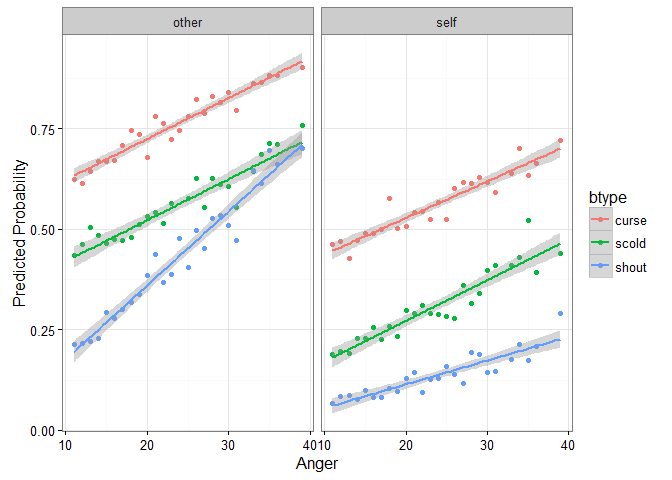
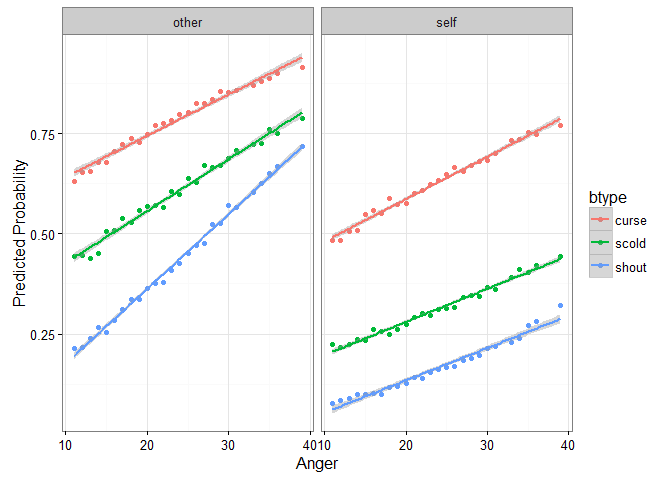
readying for release

diff --git a/README.md b/README.md
@@ -22,6 +22,29 @@ install_github("jknowles/merTools")
 install.packages("merTools")
 ```
 
+Recent Updates
+--------------
+
+### Version 0.2
+
+### New Functionality
+
+-   Substantial performance enhancement for `predictInterval` which includes better handling of large numbers of parameters and simulations, performance tweaks for added speed (~10x), and parallel backend support (currently not optimized)
+-   Add support for `probit` models and limited support for other `glmm` link functions, with warning (still do not know how to handle sigma parameter for these)
+-   Add ability for user-specified seed for reproducibility
+-   Add support for `blmerMod` and `bglmerMod` objects from the `blme` package
+-   Add a `merModList` object for lists of `merMod` objects fitted to subsets of a dataset, useful for imputation or for working with extremely large datasets
+-   Add a `print` method for `merModList` to mimic output of `summary.merMod`
+-   Add a `VarCorr` method for `merModList`
+-   Add new package data to demonstrate replication from selected published texts on multilevel modeling using different software (1982 High School and Beyond Survey data)
+
+### Other changes
+
+-   Changed the default `n.sims` for the `predictInterval` function from 100 to 1,000 to give better coverage and reflect performance increase
+-   Changed the default for `level` in `predictInterval` to be 0.8 instead of 0.95 to reflect that 0.95 prediction intervals are more conservative than most users need
+
+See [NEWS.md](https://github.com/jknowles/merTools/blob/master/NEWS.md) for more details.
+
 Shiny App and Demo
 ------------------
 
@@ -66,16 +89,16 @@ With `predictInterval` we obtain predictions that are more like the standard obj
 predictInterval(m1, newdata = InstEval[1:10, ], n.sims = 500, level = 0.9, 
                 stat = 'median')
 #>         fit      upr      lwr
-#> 1  3.076677 5.003599 1.136557
-#> 2  3.096491 5.233988 1.205294
-#> 3  3.372522 5.437127 1.450743
-#> 4  3.041402 4.997011 1.163716
-#> 5  3.299229 5.229003 1.349082
-#> 6  3.367862 5.222391 1.184870
-#> 7  4.092996 6.104901 2.313722
-#> 8  3.758966 5.601710 1.858686
-#> 9  3.815623 5.872416 1.799072
-#> 10 3.512199 5.533667 1.569613
+#> 1  3.176038 5.233758 1.064012
+#> 2  3.206135 5.422116 1.253410
+#> 3  3.336472 5.386472 1.348937
+#> 4  3.033041 5.078521 1.263795
+#> 5  3.398734 5.224032 1.280036
+#> 6  3.329136 5.166995 1.259935
+#> 7  4.219184 6.045051 2.113726
+#> 8  3.868250 5.990382 2.020127
+#> 9  3.775713 5.684676 1.638706
+#> 10 3.335752 5.433852 1.384539
 ```
 
 Note that `predictInterval` is slower because it is computing simulations. It can also return all of the simulated `yhat` values as an attribute to the predict object itself.
@@ -91,12 +114,12 @@ Plotting
 feSims <- FEsim(m1, n.sims = 100)
 head(feSims)
 #>          term        mean      median         sd
-#> 1 (Intercept)  3.22369693  3.22559188 0.02044559
-#> 2    service1 -0.07192204 -0.07203787 0.01284803
-#> 3   lectage.L -0.18593192 -0.18608018 0.01526385
-#> 4   lectage.Q  0.02344241  0.02211976 0.01252350
-#> 5   lectage.C -0.02349396 -0.02377418 0.01235913
-#> 6   lectage^4 -0.02078961 -0.02074230 0.01295802
+#> 1 (Intercept)  3.22493377  3.22409928 0.01861451
+#> 2    service1 -0.06966261 -0.06994406 0.01253572
+#> 3   lectage.L -0.18707065 -0.18573099 0.01668732
+#> 4   lectage.Q  0.02472017  0.02406085 0.01154555
+#> 5   lectage.C -0.02437002 -0.02384631 0.01236354
+#> 6   lectage^4 -0.01903224 -0.01951767 0.01456238
 ```
 
 And we can also plot this:
@@ -105,27 +128,29 @@ And we can also plot this:
 plotFEsim(FEsim(m1, n.sims = 100), level = 0.9, stat = 'median', intercept = FALSE)
 ```
 
-![](readmeplot/README-FEsimPlot-1.png)
- We can also quickly make caterpillar plots for the random-effect terms:
+![](readmeplot/README-FEsimPlot-1.png)<!-- -->
+
+We can also quickly make caterpillar plots for the random-effect terms:
 
 ``` r
 reSims <- REsim(m1, n.sims = 100)
 head(reSims)
-#>   groupFctr groupID        term        mean      median        sd
-#> 1         s       1 (Intercept)  0.18201286  0.19515930 0.3004651
-#> 2         s       2 (Intercept) -0.13026955 -0.13170366 0.3041906
-#> 3         s       3 (Intercept)  0.33702843  0.33424161 0.2595199
-#> 4         s       4 (Intercept)  0.25165774  0.21142631 0.2881497
-#> 5         s       5 (Intercept)  0.07837553  0.05368640 0.3410308
-#> 6         s       6 (Intercept)  0.07889512  0.08010547 0.2007497
+#>   groupFctr groupID        term         mean     median        sd
+#> 1         s       1 (Intercept)  0.131603941 0.09825419 0.2691620
+#> 2         s       2 (Intercept) -0.002815464 0.01225361 0.2751944
+#> 3         s       3 (Intercept)  0.291506870 0.28416089 0.3188291
+#> 4         s       4 (Intercept)  0.226318898 0.22180267 0.3002860
+#> 5         s       5 (Intercept)  0.082030612 0.09090553 0.2953157
+#> 6         s       6 (Intercept)  0.068993749 0.06753002 0.2277059
 ```
 
 ``` r
 plotREsim(REsim(m1, n.sims = 100), stat = 'median', sd = TRUE)
 ```
 
-![](readmeplot/README-reSimplot-1.png)
- Note that `plotREsim` highlights group levels that have a simulated distribution that does not overlap 0 -- these appear darker. The lighter bars represent grouping levels that are not distinguishable from 0 in the data.
+![](readmeplot/README-reSimplot-1.png)<!-- -->
+
+Note that `plotREsim` highlights group levels that have a simulated distribution that does not overlap 0 -- these appear darker. The lighter bars represent grouping levels that are not distinguishable from 0 in the data.
 
 Sometimes the random effects can be hard to interpret and not all of them are meaningfully different from zero. To help with this `merTools` provides the `expectedRank` function, which provides the percentile ranks for the observed groups in the random effect distribution taking into account both the magnitude and uncertainty of the estimated effect for each group.
 
@@ -133,10 +158,10 @@ Sometimes the random effects can be hard to interpret and not all of them are me
 ranks <- expectedRank(m1, groupFctr = "d")
 head(ranks)
 #>      d (Intercept) (Intercept)_var       ER pctER
-#> 1 1866   1.2553613     0.012755634 1123.806   100
-#> 2 1258   1.1674852     0.034291228 1115.766    99
+#> 1 1866   1.2553612     0.012755634 1123.806   100
+#> 2 1258   1.1674851     0.034291227 1115.766    99
 #> 3  240   1.0933372     0.008761218 1115.090    99
-#> 4   79   1.0998653     0.023095979 1112.315    99
+#> 4   79   1.0998652     0.023095979 1112.315    99
 #> 5  676   1.0169070     0.026562174 1101.553    98
 #> 6   66   0.9568607     0.008602823 1098.049    97
 ```
@@ -152,11 +177,11 @@ impSim <- REimpact(m1, InstEval[7, ], groupFctr = "d", breaks = 5,
 #> Warning: executing %dopar% sequentially: no parallel backend registered
 impSim
 #>   case bin   AvgFit     AvgFitSE nobs
-#> 1    1   1 3.227589 3.938623e-05  193
-#> 2    1   2 3.229472 2.755018e-05  240
-#> 3    1   3 3.216665 2.930201e-05  254
-#> 4    1   4 3.212558 3.210939e-05  265
-#> 5    1   5 3.219888 4.038770e-05  176
+#> 1    1   1 3.224916 3.342205e-05  193
+#> 2    1   2 3.225564 2.866119e-05  240
+#> 3    1   3 3.226658 2.780772e-05  254
+#> 4    1   4 3.218555 2.238131e-05  265
+#> 5    1   5 3.220744 4.429566e-05  176
 ```
 
 The result of `REimpact` shows the change in the `yhat` as the case we supplied to `newdata` is moved from the first to the fifth quintile in terms of the magnitude of the group factor coefficient. We can see here that the individual professor effect has a strong impact on the outcome variable. This can be shown graphically as well:
@@ -168,8 +193,9 @@ ggplot(impSim, aes(x = factor(bin), y = AvgFit, ymin = AvgFit - 1.96*AvgFitSE,
   geom_pointrange() + theme_bw() + labs(x = "Bin of `d` term", y = "Predicted Fit")
 ```
 
-![](readmeplot/README-reImpactplot-1.png)
- Here the standard error is a bit different -- it is the weighted standard error of the mean effect within the bin. It does not take into account the variability within the effects of each observation in the bin -- accounting for this variation will be a future addition to `merTools`.
+![](readmeplot/README-reImpactplot-1.png)<!-- -->
+
+Here the standard error is a bit different -- it is the weighted standard error of the mean effect within the bin. It does not take into account the variability within the effects of each observation in the bin -- accounting for this variation will be a future addition to `merTools`.
 
 Explore Substantive Impacts
 ---------------------------
@@ -184,7 +210,7 @@ fmVA <- glmer(r2 ~ (Anger + Gender + btype + situ)^2 +
            (1|id) + (1|item), family = binomial, 
            data = VerbAgg)
 #> Warning in checkConv(attr(opt, "derivs"), opt$par, ctrl = control
-#> $checkConv, : Model failed to converge with max|grad| = 0.055153 (tol =
+#> $checkConv, : Model failed to converge with max|grad| = 0.0534956 (tol =
 #> 0.001, component 1)
 ```
 
@@ -215,8 +241,6 @@ The next step is familiar -- we simply pass this new dataset to `predictInterval
 ``` r
 plotdf <- predictInterval(fmVA, newdata = newData, type = "probability", 
             stat = "median", n.sims = 1000)
-#> Fixed effect matrix has been padded with 0 coefficients
-#>             for random slopes not included in the fixed effects and interaction terms.
 plotdf <- cbind(plotdf, newData)
 
 ggplot(plotdf, aes(y = fit, x = Anger, color = btype, group = btype)) + 
@@ -225,4 +249,4 @@ ggplot(plotdf, aes(y = fit, x = Anger, color = btype, group = btype)) +
   labs(y = "Predicted Probability")
 ```
 
-![](readmeplot/README-substImpactPredict-1.png)
+![](readmeplot/README-substImpactPredict-1.png)<!-- -->

diff --git a/NEWS.md b/NEWS.md
@@ -14,7 +14,6 @@ failing if coercion is unsuccessful
 
 ### New Functionality
 
-- Switch to C++ RMVN sampler courtesy of Giri Gopalan 's excellent [FastGP](http://www.github.com/ggopalan/FastGP) package
 - Substantial performance enhancement for `predictInterval` which includes better 
 handling of large numbers of parameters and simulations, performance 
 tweaks for added speed (~10x), and parallel backend support (currently not optimized)
@@ -33,6 +32,15 @@ on multilevel modeling using different software (1982 High School and Beyond Sur
 
 - Changed the default `n.sims` for the `predictInterval` function from 100 to 1,000 
 to give better coverage and reflect performance increase
+- Changed the default for `level` in `predictInterval` to be 0.8 instead of 0.95 
+to reflect that 0.95 prediction intervals are more conservative than most users 
+need
+
+### Future changes
+- For the next release (1.0) we are considering a permanent switch to 
+C++ RMVN sampler courtesy of Giri Gopalan 's excellent [FastGP](http://www.github.com/ggopalan/FastGP) package
+
+
 
 ## merTools 0.1
 - Initial release
